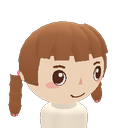
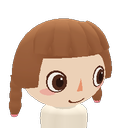
Match face proportions to the expression reference, raise character budget
- Character triangle budget 4,000 -> 8,000 (CLAUDE.md, DESIGN.md,
  face_check); head, hair and hair locks use more segments.
- Head is now a wide "mochi" shape: cheeks and jaw widen below the eyes
  (head_width), and face_point/head_normal follow the same surface so
  face parts stay glued on.
- Eyes ~1.45x larger, lowered to just below head centre and spaced like
  the reference; nose is a long apricot triangle from eye level, mouth
  lower; bigger ears; default eyebrows removed.
- Fix cross-eyed look: iris/pupil/highlight layers are marked "gaze" and
  are no longer mirrored, so both eyes look the same way.
- Heart eyes restored as a heart iris; flat mouth is a straight line again.
- art_preview: new "portraits" mode (6 expressions, front view at eye level).

diff --git a/CLAUDE.md b/CLAUDE.md
@@ -5,7 +5,7 @@
 - 정적 타입 필수: 변수·인자·반환형 모두 명시 (`var hp: int`, `func f(a: float) -> void`). `:=`는 타입이 자명할 때만.
 - 타입 없는 `Variant`, 무분별한 `Dictionary`/`get_node` 문자열 경로 지양 → `@export`/`@onready var x: Type`, 데이터는 Resource 클래스.
 ## 3D 성능 (Mobile 렌더러, 30fps 고정, 프레임 33ms)
-- 폴리곤 예산 준수: 캐릭터 ≤4,000tri, 나무 1,200, 집 4,000, 소형 소품 300, 가구 300/800/1,500, 방 합계 50k, 마을 합계 350k.
+- 폴리곤 예산 준수: 캐릭터 ≤8,000tri, 나무 1,200, 집 4,000, 소형 소품 300, 가구 300/800/1,500, 방 합계 50k, 마을 합계 350k.
 - 반복 물체(풀·꽃·울타리·조약돌)는 반드시 `MultiMeshInstance3D`. 세트별 공용 아틀라스 머티리얼 1개, 투명 머티리얼은 화면 내 10개 이하(알파 블렌드 대신 알파 시저).
 - 노멀맵·블렌드셰이프·캐릭터 LOD 없음, 셰이더 8개 이하, 작은 소품은 visibility range 지정.
 ## 서버

diff --git a/DESIGN.md b/DESIGN.md
@@ -593,7 +593,7 @@ Mobile 렌더러에는 SSAO가 없으므로 **정적 차폐는 정점 색에 미
 
 | 항목 | 예산 |
 |---|---|
-| 삼각형 (머리카락·모자·앞치마 포함) | 목표 3,500 / 상한 **4,000** |
+| 삼각형 (머리카락·모자·앞치마 포함) | 목표 6,000 / 상한 **8,000** |
 | LOD | 없음 (카메라 거리가 고정이라 효과 없음) |
 | 머티리얼 | **2개** (몸 1, 얼굴 1) → 캐릭터당 드로우콜 2 (+그림자 패스) |
 | 본 | ≤ 40 (손가락은 미트 형태로 생략), 정점당 가중치 ≤ 4 |
